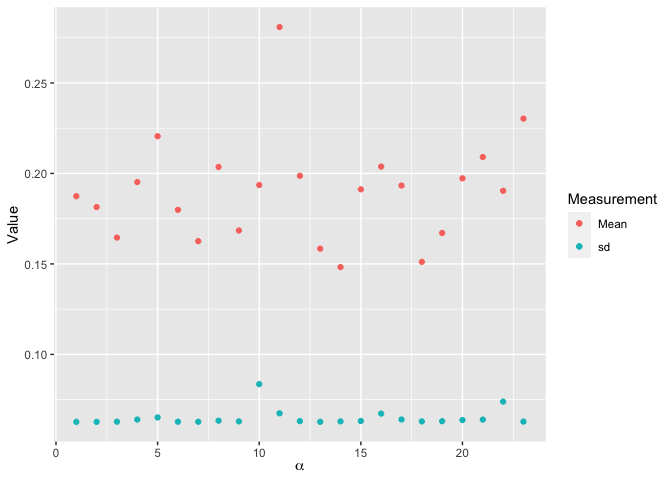
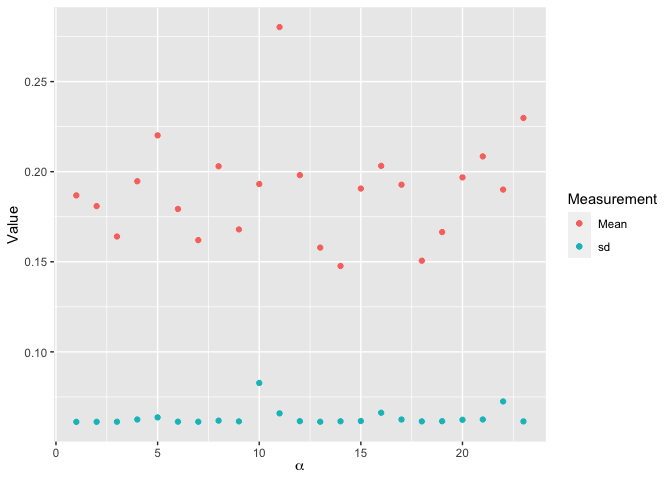
Finalized model 5 and knitted

diff --git a/Vaporfly.md b/Vaporfly.md
@@ -55,10 +55,6 @@ final = full_join(men, women) %>%
                  0)
   )%>%
   filter(!is.na(vaporfly))
-
-#Transform the marathon variable to a dummy variable for JAGS
-final = cbind(final, to.dummy(v=final$marathon, prefix = "marathon"))
-#MAY NEED TO TAKE OUT LAKEFRONT MARATHON
 ```
 
 # Visualizations
@@ -170,16 +166,16 @@ dic_1 = dic.samples(model, n.iter=2000, progress.bar="none")
     ##    plus standard error of the mean:
     ## 
     ##           Mean       SD  Naive SE Time-series SE
-    ## B1     5.00594 0.002465 3.898e-05      4.294e-05
-    ## B2    -0.03146 0.006990 1.105e-04      1.282e-04
-    ## sigma  0.09383 0.001657 2.619e-05      2.619e-05
+    ## B1     5.00599 0.002480 3.921e-05      4.367e-05
+    ## B2    -0.03138 0.006998 1.107e-04      1.255e-04
+    ## sigma  0.09389 0.001670 2.640e-05      2.668e-05
     ## 
     ## 2. Quantiles for each variable:
     ## 
     ##           2.5%      25%      50%      75%    97.5%
-    ## B1     5.00106  5.00427  5.00598  5.00758  5.01073
-    ## B2    -0.04523 -0.03631 -0.03144 -0.02674 -0.01746
-    ## sigma  0.09070  0.09266  0.09384  0.09493  0.09720
+    ## B1     5.00118  5.00428  5.00599  5.00770  5.01067
+    ## B2    -0.04529 -0.03609 -0.03133 -0.02650 -0.01819
+    ## sigma  0.09072  0.09273  0.09386  0.09495  0.09720
 
 ![](Vaporfly_files/figure-gfm/unnamed-chunk-10-1.png)<!-- -->
 
@@ -263,18 +259,18 @@ summary(samples)
     ##    plus standard error of the mean:
     ## 
     ##           Mean        SD  Naive SE Time-series SE
-    ## B[1]   4.93658 0.0018649 2.408e-05      4.142e-05
-    ## B[2]  -0.01897 0.0039110 5.049e-05      5.965e-05
-    ## B[3]   0.14103 0.0026250 3.389e-05      5.711e-05
-    ## sigma  0.05231 0.0009192 1.187e-05      1.187e-05
+    ## B[1]   4.93649 0.0019319 2.494e-05      4.399e-05
+    ## B[2]  -0.01880 0.0039272 5.070e-05      5.618e-05
+    ## B[3]   0.14114 0.0026634 3.438e-05      5.812e-05
+    ## sigma  0.05234 0.0009279 1.198e-05      1.215e-05
     ## 
     ## 2. Quantiles for each variable:
     ## 
-    ##           2.5%      25%      50%     75%    97.5%
-    ## B[1]   4.93296  4.93533  4.93655  4.9379  4.94027
-    ## B[2]  -0.02676 -0.02151 -0.01896 -0.0164 -0.01135
-    ## B[3]   0.13584  0.13926  0.14104  0.1428  0.14615
-    ## sigma  0.05058  0.05168  0.05228  0.0529  0.05419
+    ##           2.5%      25%      50%      75%    97.5%
+    ## B[1]   4.93267  4.93519  4.93651  4.93778  4.94025
+    ## B[2]  -0.02645 -0.02145 -0.01880 -0.01617 -0.01099
+    ## B[3]   0.13602  0.13929  0.14111  0.14299  0.14637
+    ## sigma  0.05055  0.05171  0.05234  0.05295  0.05418
 
 ``` r
 gelman.diag(samples)
@@ -361,20 +357,20 @@ summary(samples)
     ##    plus standard error of the mean:
     ## 
     ##             Mean       SD  Naive SE Time-series SE
-    ## B[1]   4.9364731 0.002278 3.602e-05      6.905e-05
-    ## B[2]  -0.0188373 0.006081 9.615e-05      1.677e-04
-    ## B[3]   0.1411324 0.003269 5.168e-05      9.786e-05
-    ## C     -0.0001531 0.009563 1.512e-04      2.602e-04
-    ## sigma  0.0620780 0.001094 1.731e-05      1.729e-05
+    ## B[1]   4.9366374 0.002346 3.709e-05      7.766e-05
+    ## B[2]  -0.0191371 0.006079 9.611e-05      1.700e-04
+    ## B[3]   0.1409369 0.003382 5.347e-05      1.023e-04
+    ## C      0.0003999 0.009417 1.489e-04      2.649e-04
+    ## sigma  0.0620621 0.001087 1.718e-05      1.718e-05
     ## 
     ## 2. Quantiles for each variable:
     ## 
-    ##           2.5%       25%        50%       75%    97.5%
-    ## B[1]   4.93208  4.934966  4.9364814  4.938034  4.94081
-    ## B[2]  -0.03103 -0.022948 -0.0187429 -0.014728 -0.00702
-    ## B[3]   0.13472  0.138960  0.1411193  0.143309  0.14764
-    ## C     -0.01849 -0.006806 -0.0001725  0.006257  0.01910
-    ## sigma  0.06006  0.061324  0.0620256  0.062839  0.06423
+    ##           2.5%       25%        50%      75%     97.5%
+    ## B[1]   4.93192  4.935073  4.9366195  4.93825  4.941145
+    ## B[2]  -0.03152 -0.023179 -0.0190998 -0.01526 -0.007166
+    ## B[3]   0.13430  0.138717  0.1409391  0.14318  0.147436
+    ## C     -0.01865 -0.005757  0.0005601  0.00678  0.018334
+    ## sigma  0.05992  0.061340  0.0620667  0.06277  0.064242
 
 ``` r
 gelman.diag(samples)
@@ -384,10 +380,10 @@ gelman.diag(samples)
     ## 
     ##       Point est. Upper C.I.
     ## B[1]           1       1.00
-    ## B[2]           1       1.00
-    ## B[3]           1       1.01
-    ## C              1       1.00
-    ## sigma          1       1.02
+    ## B[2]           1       1.01
+    ## B[3]           1       1.00
+    ## C              1       1.01
+    ## sigma          1       1.00
     ## 
     ## Multivariate psrf
     ## 
@@ -407,17 +403,17 @@ log(Y\_i) \\sim N(\\mu\_i, \\sigma^2)\\\\
 V\_i \\in 0,1: Vaporfly\\\\
 S\_i \\in 0,1: Sex\\\\
 \\alpha\_i: effect \\space of \\space maraton \\space of \\space
-runner\_i
+course\\\\
 \\beta\_i \\sim N(0, 10^2)\\\\
 \\alpha\_i \\sim N(0, 10^2)
 \\sigma^2 \\sim InvGamma(0.1, 1)\\\\
-](https://latex.codecogs.com/png.latex?%0Alog%28Y_i%29%20%5Csim%20N%28%5Cmu_i%2C%20%5Csigma%5E2%29%5C%5C%0A%5Cmu_i%20%3D%20%5Cbeta_0%2B%5Cbeta1V_i%2B%5Cbeta_2S_i%2B%5Cbeta_3S_i%2AV_i%20%2B%20%5Calpha_i%5C%5C%0AV_i%20%5Cin%200%2C1%3A%20Vaporfly%5C%5C%0AS_i%20%5Cin%200%2C1%3A%20Sex%5C%5C%0A%5Calpha_i%3A%20effect%20%5Cspace%20of%20%5Cspace%20maraton%20%5Cspace%20of%20%5Cspace%20runner_i%0A%5Cbeta_i%20%5Csim%20N%280%2C%2010%5E2%29%5C%5C%0A%5Calpha_i%20%5Csim%20N%280%2C%2010%5E2%29%0A%5Csigma%5E2%20%5Csim%20InvGamma%280.1%2C%201%29%5C%5C%0A
+](https://latex.codecogs.com/png.latex?%0Alog%28Y_i%29%20%5Csim%20N%28%5Cmu_i%2C%20%5Csigma%5E2%29%5C%5C%0A%5Cmu_i%20%3D%20%5Cbeta_0%2B%5Cbeta1V_i%2B%5Cbeta_2S_i%2B%5Cbeta_3S_i%2AV_i%20%2B%20%5Calpha_i%5C%5C%0AV_i%20%5Cin%200%2C1%3A%20Vaporfly%5C%5C%0AS_i%20%5Cin%200%2C1%3A%20Sex%5C%5C%0A%5Calpha_i%3A%20effect%20%5Cspace%20of%20%5Cspace%20maraton%20%5Cspace%20of%20%5Cspace%20course%5C%5C%0A%5Cbeta_i%20%5Csim%20N%280%2C%2010%5E2%29%5C%5C%0A%5Calpha_i%20%5Csim%20N%280%2C%2010%5E2%29%0A%5Csigma%5E2%20%5Csim%20InvGamma%280.1%2C%201%29%5C%5C%0A
 "
 log(Y_i) \\sim N(\\mu_i, \\sigma^2)\\\\
 \\mu_i = \\beta_0+\\beta1V_i+\\beta_2S_i+\\beta_3S_i*V_i + \\alpha_i\\\\
 V_i \\in 0,1: Vaporfly\\\\
 S_i \\in 0,1: Sex\\\\
-\\alpha_i: effect \\space of \\space maraton \\space of \\space runner_i
+\\alpha_i: effect \\space of \\space maraton \\space of \\space course\\\\
 \\beta_i \\sim N(0, 10^2)\\\\
 \\alpha_i \\sim N(0, 10^2)
 \\sigma^2 \\sim InvGamma(0.1, 1)\\\\
@@ -463,37 +459,37 @@ gelman.diag(samples)
     ## Potential scale reduction factors:
     ## 
     ##           Point est. Upper C.I.
-    ## B0              1.22       1.75
+    ## B0              1.07       1.28
     ## B1              1.00       1.00
     ## B2              1.00       1.00
-    ## alpha[1]        1.22       1.74
-    ## alpha[2]        1.22       1.74
-    ## alpha[3]        1.22       1.74
-    ## alpha[4]        1.21       1.71
-    ## alpha[5]        1.20       1.69
-    ## alpha[6]        1.22       1.74
-    ## alpha[7]        1.22       1.74
-    ## alpha[8]        1.22       1.74
-    ## alpha[9]        1.22       1.74
-    ## alpha[10]       1.12       1.43
-    ## alpha[11]       1.19       1.66
-    ## alpha[12]       1.22       1.74
-    ## alpha[13]       1.22       1.74
-    ## alpha[14]       1.22       1.74
-    ## alpha[15]       1.22       1.73
-    ## alpha[16]       1.19       1.64
-    ## alpha[17]       1.21       1.71
-    ## alpha[18]       1.22       1.74
-    ## alpha[19]       1.22       1.74
-    ## alpha[20]       1.21       1.72
-    ## alpha[21]       1.21       1.71
-    ## alpha[22]       1.15       1.54
-    ## alpha[23]       1.22       1.74
+    ## alpha[1]        1.07       1.28
+    ## alpha[2]        1.07       1.27
+    ## alpha[3]        1.07       1.28
+    ## alpha[4]        1.06       1.26
+    ## alpha[5]        1.06       1.25
+    ## alpha[6]        1.07       1.27
+    ## alpha[7]        1.07       1.28
+    ## alpha[8]        1.07       1.27
+    ## alpha[9]        1.07       1.27
+    ## alpha[10]       1.03       1.13
+    ## alpha[11]       1.06       1.24
+    ## alpha[12]       1.07       1.27
+    ## alpha[13]       1.07       1.28
+    ## alpha[14]       1.07       1.27
+    ## alpha[15]       1.07       1.27
+    ## alpha[16]       1.05       1.23
+    ## alpha[17]       1.07       1.26
+    ## alpha[18]       1.07       1.27
+    ## alpha[19]       1.07       1.27
+    ## alpha[20]       1.07       1.27
+    ## alpha[21]       1.07       1.26
+    ## alpha[22]       1.04       1.19
+    ## alpha[23]       1.07       1.27
     ## sigma           1.00       1.00
     ## 
     ## Multivariate psrf
     ## 
-    ## 1.1
+    ## 1.04
 
 ``` r
 #Compute DIC
@@ -533,6 +529,92 @@ effects behave similarly and produced relatively similar estimates and
 Posterior Distributions. Because of this and the low effective sample
 size of the ![\\beta\_0](https://latex.codecogs.com/png.latex?%5Cbeta_0
 "\\beta_0") in this model, I propose the removal of the Marathon effect
-term in the model.
+term in the model. However, we have yet to consider the interaction that
+the use of Vaporflys may have with age and marathon course. Good
+modeling practice says to include all lower order terms, so I will keep
+the marathon effect.
 
 ## Model 5
+
+  
+![
+log(Y\_i) \\sim N(\\mu\_i, \\sigma^2)\\\\
+\\mu\_i =
+B\_0+B\_1V\_i+B\_2S\_i+M\_i+R\_i+C\_1M\_iR\_i+C\_2R\_iV\_i+C\_3S\_iV\_i+C\_4M\_iV\_i\\\\
+V\_i : Indicator \\space of \\space Vaporflys\\\\
+S\_i : Sex\\\\
+M\_i: Effect \\space of \\space Marathon \\space of \\space Y\_i\\\\
+R\_i: Effect \\space of \\space Runner \\space of \\space Y\_i\\\\
+B\_0, B\_1, B\_2 \\sim N(0, (1/10)^2)\\\\
+M\_i \\sim N(0, (1/10)^2)\\\\
+R\_i \\sim N(0, (1/10)^2)\\\\
+C\_1, C\_2, C\_3, C\_4 \\sim N(0, (1/10)^2)\\\\
+\\sigma^2 \\sim InvGamma(0.1, 1)
+](https://latex.codecogs.com/png.latex?%0Alog%28Y_i%29%20%5Csim%20N%28%5Cmu_i%2C%20%5Csigma%5E2%29%5C%5C%0A%5Cmu_i%20%3D%20B_0%2BB_1V_i%2BB_2S_i%2BM_i%2BR_i%2BC_1M_iR_i%2BC_2R_iV_i%2BC_3S_iV_i%2BC_4M_iV_i%5C%5C%0AV_i%20%3A%20Indicator%20%5Cspace%20of%20%5Cspace%20Vaporflys%5C%5C%0AS_i%20%3A%20Sex%5C%5C%0AM_i%3A%20Effect%20%5Cspace%20of%20%5Cspace%20Marathon%20%5Cspace%20of%20%5Cspace%20Y_i%5C%5C%0AR_i%3A%20Effect%20%5Cspace%20of%20%5Cspace%20Runner%20%5Cspace%20of%20%5Cspace%20Y_i%5C%5C%0AB_0%2C%20B_1%2C%20B_2%20%5Csim%20N%280%2C%20%281%2F10%29%5E2%29%5C%5C%0AM_i%20%5Csim%20N%280%2C%20%281%2F10%29%5E2%29%5C%5C%0AR_i%20%5Csim%20N%280%2C%20%281%2F10%29%5E2%29%5C%5C%0AC_1%2C%20C_2%2C%20C_3%2C%20C_4%20%5Csim%20N%280%2C%20%281%2F10%29%5E2%29%5C%5C%0A%5Csigma%5E2%20%5Csim%20InvGamma%280.1%2C%201%29%0A
+"
+log(Y_i) \\sim N(\\mu_i, \\sigma^2)\\\\
+\\mu_i = B_0+B_1V_i+B_2S_i+M_i+R_i+C_1M_iR_i+C_2R_iV_i+C_3S_iV_i+C_4M_iV_i\\\\
+V_i : Indicator \\space of \\space Vaporflys\\\\
+S_i : Sex\\\\
+M_i: Effect \\space of \\space Marathon \\space of \\space Y_i\\\\
+R_i: Effect \\space of \\space Runner \\space of \\space Y_i\\\\
+B_0, B_1, B_2 \\sim N(0, (1/10)^2)\\\\
+M_i \\sim N(0, (1/10)^2)\\\\
+R_i \\sim N(0, (1/10)^2)\\\\
+C_1, C_2, C_3, C_4 \\sim N(0, (1/10)^2)\\\\
+\\sigma^2 \\sim InvGamma(0.1, 1)
+")  
+
+``` r
+X_mod = X%>%select(1, vaporfly, sex, marathon, match_name)%>%
+  mutate(marathon = as.numeric(factor(marathon)),
+         vaporfly = as.numeric(vaporfly),
+         runner = as.numeric(factor(match_name)))%>%
+  select(-match_name)
+
+n_run = max(X_mod$runner)
+n_mar = max(X_mod$marathon)
+
+data = list(logy=logy, X_mod=X_mod, n_run=n_run, n_mar=n_mar, n=n)
+
+model_string = textConnection("model{
+    #likelihood
+    for(i in 1:n){
+      logy[i] ~ dnorm(mu[i], tau)
+      mu[i] = B0 + B1*X_mod[i,2] + B2*X_mod[i,3] + 
+      M[X_mod[i,4]] + R[X_mod[i,5]] + 
+      C1*M[X_mod[i,4]]*R[X_mod[i,5]] + C2*R[X_mod[i,5]]*X_mod[i,2] + 
+      C3*X_mod[i,3]*X_mod[i,2] + C4*X_mod[i,2]*M[X_mod[i,4]]
+    }
+    
+    #Random marathon effect
+    for(j in 1:n_mar){
+      M[j] ~ dnorm(0, 1)
+    }
+    
+    #Random runner effect
+    for(k in 1:n_run){
+      R[k] ~ dnorm(0, 1)
+    }
+    
+    #Priors
+    B0~dnorm(0, 1)
+    B1~dnorm(0, 1)
+    B2~dnorm(0, 1)
+    C1~dnorm(0, 1)
+    C2~dnorm(0, 1)
+    C3~dnorm(0, 1)
+    C4~dnorm(0, 1)
+    tau~dgamma(0.1, 1)
+    sigma = 1/sqrt(tau)
+}")
+
+inits = list(B0=0, B1=0, B2=0, C1=0, C2=0, C3=0,C4=0, M=rep(0, n_mar), R=rep(0, n_run), tau=1)
+model = jags.model(model_string, data=data, inits = inits, n.chains = 2, quiet=T)
+update(model, 10000, progress.bar="none")
+
+params = c("B0", "B1", "B2","C1", "C2", "C3", "C4", "sigma", "M", "R")
+samples = coda.samples(model, variable.names = params, n.iter=10000, progress.bar="none")
+
+dic_5 = dic.samples(model, n.iter=1000, progress.bar="none")
+```
